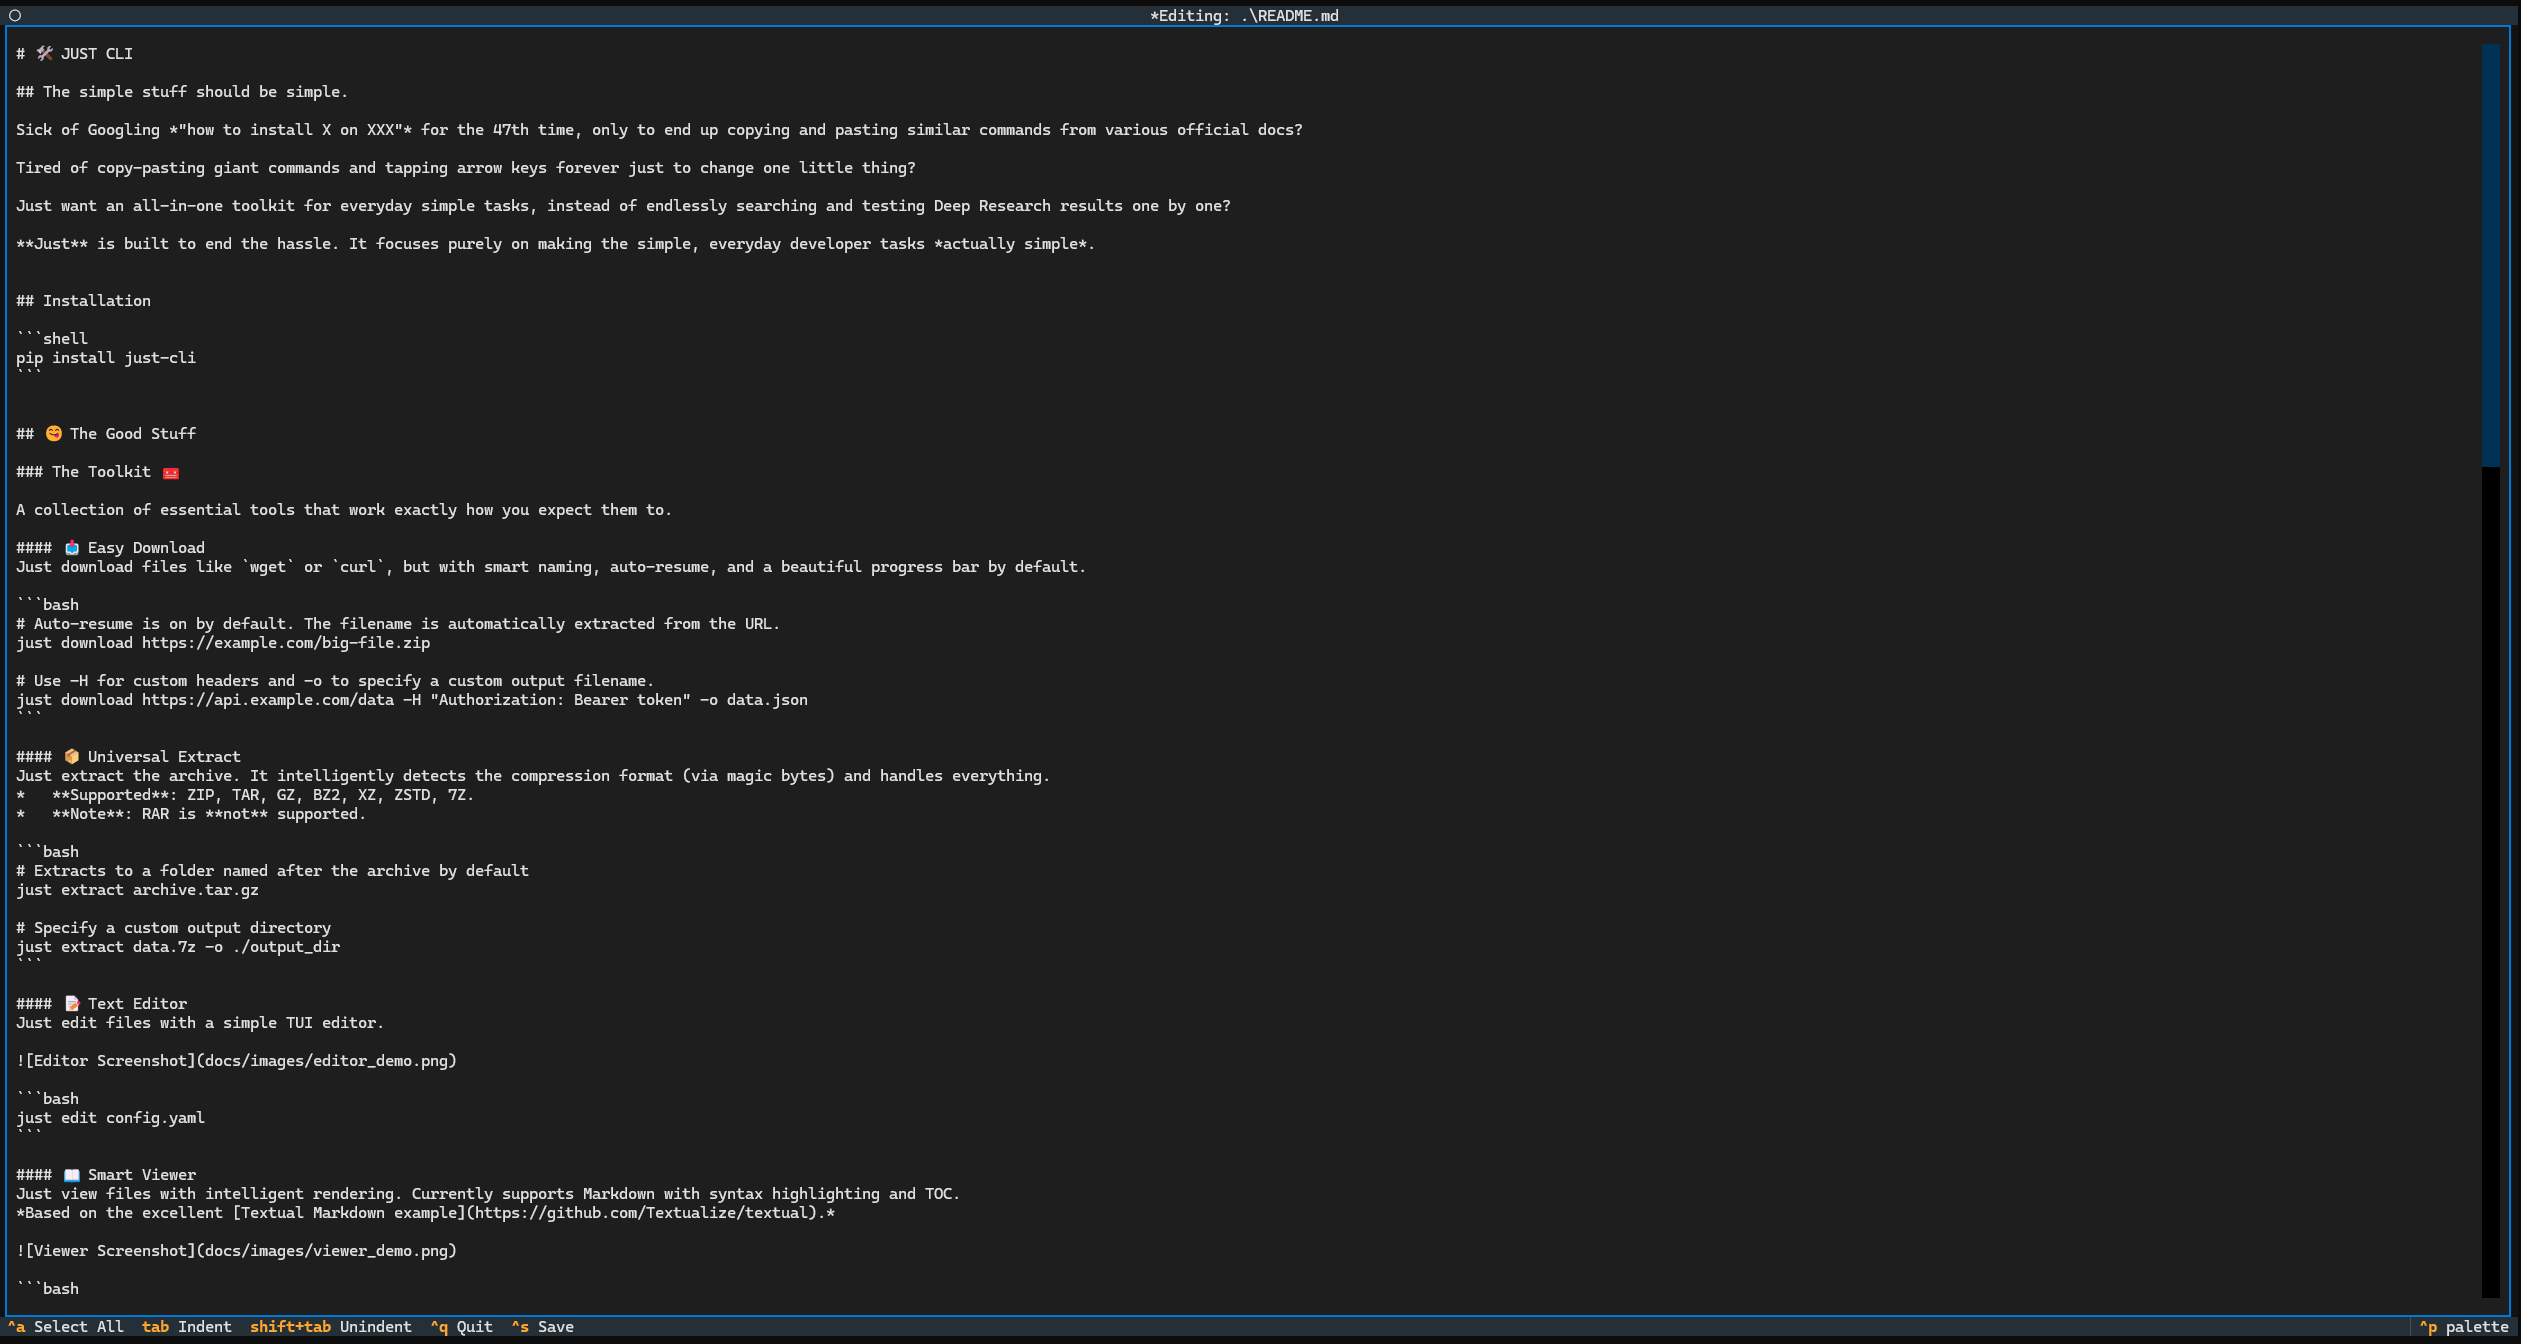
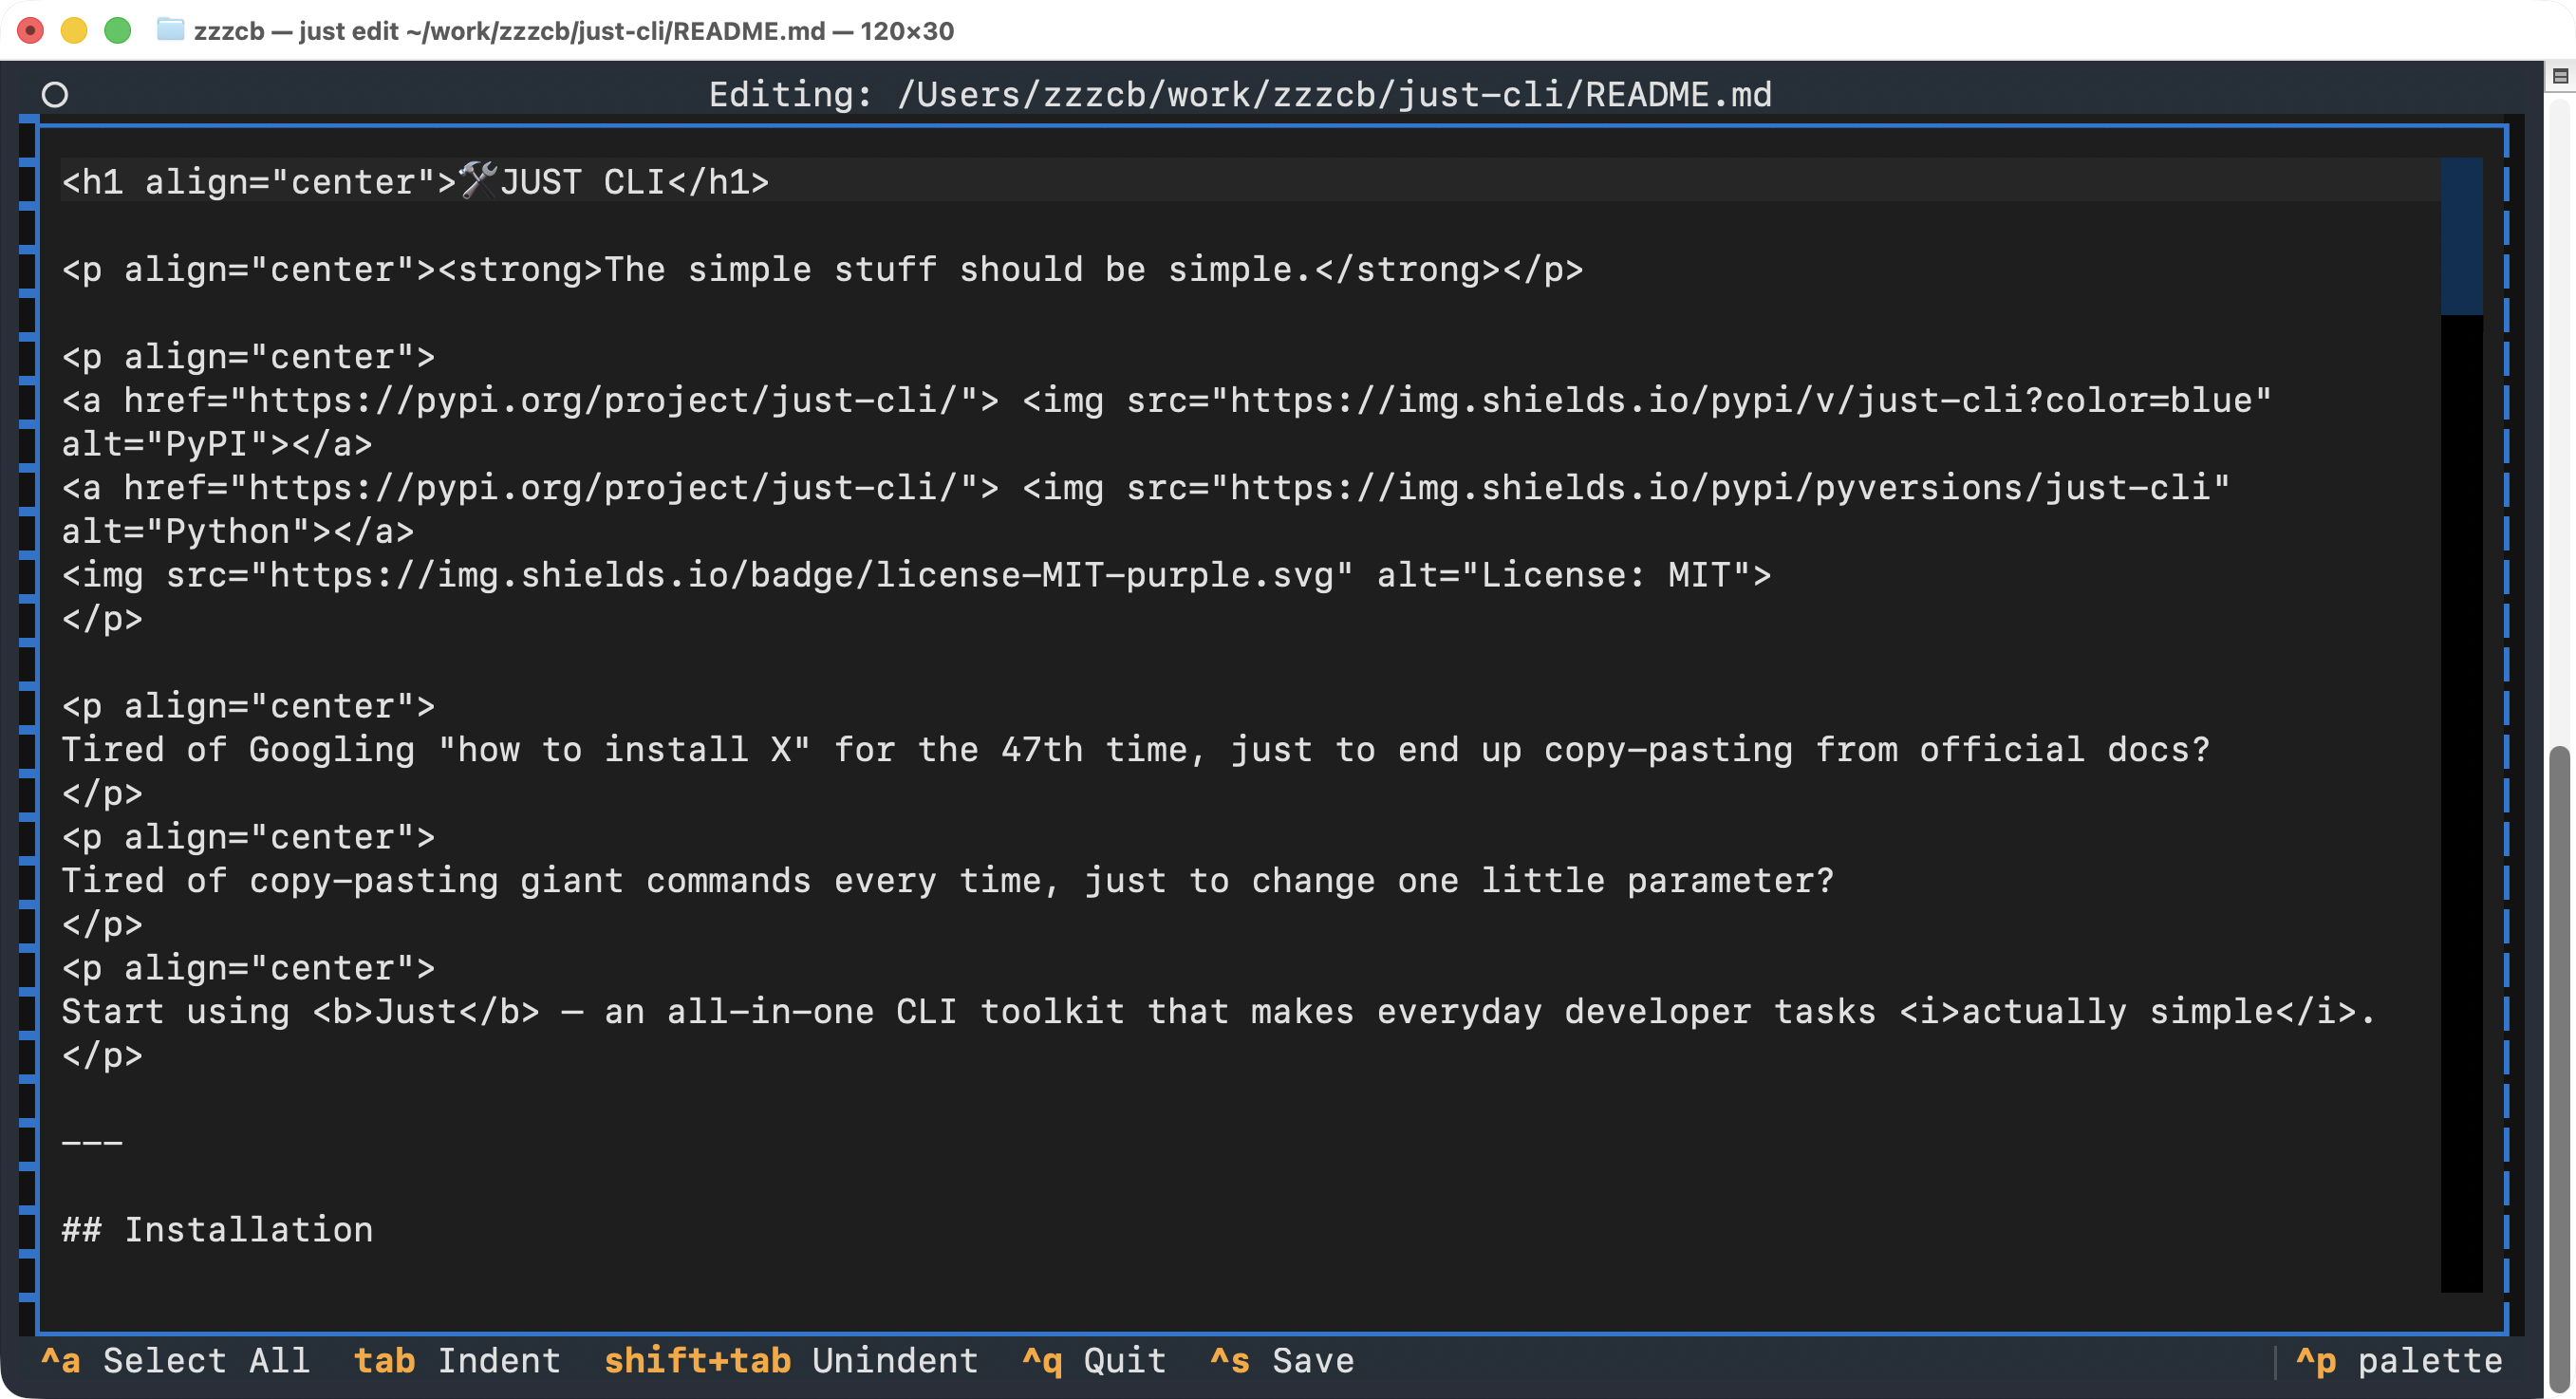
docs: refresh README and TUI screenshots
- Modernize README with badges, collapsible format table, and archive docs
- Rephrase intro and prioritize uv in installation
- Emphasize auto-resume by default in download section
- Use HTML h1 tag to properly center title in GitHub Markdown
- Add TUI screenshots for editor, viewer, and note

Changed region(s): [[0.0, 0.0, 1.0, 1.0], [0.4022, 0.3438, 0.8663, 0.375], [0.4022, 0.2812, 0.8663, 0.3125]]

diff --git a/README.md b/README.md
@@ -1,54 +1,91 @@
-# 🛠️ JUST CLI
+<h1 align="center">🛠️ JUST CLI</h1>
 
-## The simple stuff should be simple.
+<p align="center"><strong>The simple stuff should be simple.</strong></p>
 
-Sick of Googling *"how to install X on XXX"* for the 47th time, only to end up copying and pasting similar commands from various official docs?
+<p align="center">
+<a href="https://pypi.org/project/just-cli/"> <img src="https://img.shields.io/pypi/v/just-cli?color=blue" alt="PyPI"></a>
+<a href="https://pypi.org/project/just-cli/"> <img src="https://img.shields.io/pypi/pyversions/just-cli" alt="Python"></a>
+<img src="https://img.shields.io/badge/license-MIT-purple.svg" alt="License: MIT">
+</p>
 
-Tired of copy-pasting giant commands and tapping arrow keys forever just to change one little thing?
+<p align="center">
+Tired of Googling "how to install X" for the 47th time, just to end up copy-pasting from official docs?
+</p>
+<p align="center">
+Tired of copy-pasting giant commands every time, just to change one little parameter?
+</p>
+<p align="center">
+Start using <b>Just</b> — an all-in-one CLI toolkit that makes everyday developer tasks <i>actually simple</i>.
+</p>
 
-Just want an all-in-one toolkit for everyday simple tasks, instead of endlessly searching and testing Deep Research results one by one?
-
-**Just** is built to end the hassle. It focuses purely on making the simple, everyday developer tasks *actually simple*.
-
+---
 
 ## Installation
 
-```shell
+```bash
+uv tool install just-cli
+```
+
+Or with pip:
+
+```bash
 pip install just-cli
 ```
 
-## 😋 The Good Stuff
+---
 
-### The Toolkit 🧰
+## Features
 
-A collection of essential tools that work exactly how you expect them to.
+### 📦 Archive & Extract
 
-#### 📥 Easy Download
-Just download files like `wget` or `curl`, but with smart naming, auto-resume, and a beautiful progress bar by default.
+Create and extract archives with automatic format detection.
 
 ```bash
-# Auto-resume is on by default. The filename is automatically extracted from the URL.
+# Create archives — format is determined by output extension
+just archive mydir -o backup.zip
+just archive mydir -o backup.tar.gz
+just archive mydir -o backup.7z
+just archive myfile.txt -o myfile.txt.gz    # single-file compression
+
+# Extract archives — magic bytes detection, works even with wrong extensions
+just extract backup.zip
+just extract data.tar.gz -o ./output_dir
+```
+
+<details>
+<summary><strong>Supported formats</strong></summary>
+
+| Format | Archive | Extract |
+|--------|:-------:|:-------:|
+| `.zip` | ✅ | ✅ |
+| `.tar` | ✅ | ✅ |
+| `.tar.gz` / `.tgz` | ✅ | ✅ |
+| `.tar.bz2` / `.tbz2` | ✅ | ✅ |
+| `.tar.xz` / `.txz` | ✅ | ✅ |
+| `.tar.zst` / `.tzst` | ✅ | ✅ |
+| `.gz` | ✅ | ✅ |
+| `.bz2` | ✅ | ✅ |
+| `.xz` | ✅ | ✅ |
+| `.zst` | ✅ | ✅ |
+| `.7z` | ✅ | ✅ |
+
+</details>
+
+### 📥 Download
+
+Like `wget` or `curl`, but with auto-resume **by default** and a progress bar.
+
+```bash
+# Filename is automatically extracted from URL, resume is on by default
 just download https://example.com/big-file.zip
 
-# Use -H for custom headers and -o to specify a custom output filename.
+# Custom headers and output name
 just download https://api.example.com/data -H "Authorization: Bearer token" -o data.json
 ```
 
-#### 📦 Universal Extract
-Just extract the archive. It intelligently detects the compression format (via magic bytes) and handles everything.
-*   **Supported**: ZIP, TAR, GZ, BZ2, XZ, ZSTD, 7Z.
-*   **Note**: RAR is **not** supported.
+### 📝 Edit
 
-```bash
-# Extracts to a folder named after the archive by default
-just extract archive.tar.gz
-
-# Specify a custom output directory
-just extract data.7z -o ./output_dir
-```
-
-#### 📝 Text Editor
-Just edit files with a simple TUI editor.
+A lightweight TUI text editor built right in.
 
 ```bash
 just edit README.md
@@ -56,137 +93,98 @@ just edit README.md
 
 ![Editor Screenshot](docs/images/editor_demo.png)
 
-#### 📖 Smart Viewer
-Just view files with intelligent rendering. Currently supports Markdown with syntax highlighting and TOC.
-*Based on the excellent [Textual Markdown example](https://github.com/Textualize/textual).*
+### 📖 View
+
+Smart file viewer with syntax highlighting, TOC, and structured rendering.
 
 ```bash
-just view README.md
+just view README.md          # Markdown
+just view data.json          # JSON
+just view config.xml         # XML
 ```
 
 ![Viewer Screenshot](docs/images/viewer_demo.png)
 
-#### 🌐 Cloudflare Tunnel
-Just expose your local server to the internet.
+### 🌐 Tunnel
+
+Expose your local server to the internet via Cloudflare Tunnel.
 
 ```bash
-# Powered by Cloudflare Tunnel (cloudflared)
 just tunnel http://localhost:8000
 ```
 
-#### 🐧 Common Linux File Operations
-Just some common file operations implemented in Python, for those tired of remembering command differences between Linux and Windows.
+### 🐧 File Operations
+
+Common file commands, cross-platform, no syntax surprises.
 
 ```bash
-just cat
-just ls 
-just cp
-just mv
-just rm
-just mkdir
+just cat file.txt
+just ls
+just cp src dst
+just mv old new
+just rm file
+just mkdir dir
 ```
 
-### The Extension System 🧩
+### 📒 Notes
 
-#### Create a CLI tool with Just Extension in just 2 steps
+Quick notes stored in `~/.just/notes`.
 
-The core idea is simple: **String Replacement**. You take a long, complex command, mark the parts you want to change, and `just` generates a CLI for it.
+```bash
+just note
+```
 
-Here is an example:
+![Note Screenshot](docs/images/note_demo.png)
 
-1.  **Register the complex command**:
-    Tell `just` what command you want to alias.
-    ```bash
-    just ext add docker inspect -f '{{range .NetworkSettings.Networks}}{{.IPAddress}}{{end}}' f523e75ca4ef
-    ```
+### 🧩 Extension System
 
-2.  **Design your command**:
-    Design a command structure that is easy for you to remember by marking dynamic parts using the syntax `[<name>:<type>=<default>#<help>]`.
-    ```text
-    # Replace the static container ID with a dynamic argument
-    Enter extension commands: just docker ip f523e75ca4ef[container_id:str#The Container ID]
-    ```
+Turn any long command into a reusable, type-safe CLI in 2 steps.
 
-**That's it!** Now you can use your new command:
+**1. Register the base command:**
+```bash
+just ext add docker inspect -f '{{range .NetworkSettings.Networks}}{{.IPAddress}}{{end}}' f523e75ca4ef
+```
+
+**2. Define your CLI by marking dynamic parts:**
+```text
+Enter extension commands: just docker ip f523e75ca4ef[container_id:str#The Container ID]
+```
+
+**Done.** Now use it:
 ```bash
 just docker ip <container_id>
 ```
 
-#### ✨ How it works
+Under the hood, `just` generates a native Python script using typer — with auto-completion, type validation, and help messages. All from simple **string replacement**.
 
-When you run the command above, `just` compiles a native Python script using **typer**.
+### 💿 Installer Framework
 
-1.  **Parsing**: The syntax `f523e75ca4ef[container_id:str#The Container ID]` tells `just` to:
-    *   Identify `f523e75ca4ef` as the **target string** to replace.
-    *   Create a variable `container_id` of type `str`.
-    *   Use "The Container ID" as the help message.
-
-2.  **Code Generation**: It generates a Python function with a type-safe signature:
-    ```python
-    def main(container_id: Annotated[str, typer.Argument(help="The Container ID")]):
-        # The original command template
-        command = "docker inspect -f '{{range .NetworkSettings.Networks}}{{.IPAddress}}{{end}}' f523e75ca4ef"
-        
-        # String Replacement Logic
-        command = command.replace('f523e75ca4ef', str(container_id))
-        
-        # Execution
-        subprocess.run(shlex.split(command))
-    ```
-
-3.  **Result**: You get a fully functional CLI with auto-completion, type validation, and help messages—all powered by the simple act of string replacement.
-
-
-### The Installer 💿
-
-#### Automate the "Official Docs" with minimal code.
-
-`just` allows you to run any command from the official docs using `just.execute_commands`. It simply automates your manual steps.
-
-To help you make decisions, `just` provides system probing tools:
-*   `just.system.platform`: `linux`, `windows`, `darwin`
-*   `just.system.arch`: `x86_64`, `aarch64`
-*   `just.system.pms`: Detects `winget`, `brew`, `apt`, etc.
-
-We also provide two specialized helpers for common scenarios:
-*   **`just.BinaryInstaller`**: Best for single-file binaries (handles download, chmod, path).
-*   **`just.ArchiveInstaller`**: Best for archives (handles download, extraction, linking).
-
-#### Example: Installing Cloudflared
-
-Here is a complete example that mimics the official installation logic:
+Automate installation scripts with system probing and binary/archive helpers.
 
 ```python
 @just.installer(check="cloudflared --version")
-def install_cloudflare():
-    """Install Cloudflare Tunnel client."""
-    
-    # Use standard package managers if available
-    if just.system.pms.winget.is_available():
-        just.execute_commands("winget install --id Cloudflare.cloudflared")
-        
-    elif just.system.pms.brew.is_available():
+def install_cloudflared():
+    if just.system.pms.brew.is_available():
         just.execute_commands("brew install cloudflared")
-    
-    # Use BinaryInstaller
     elif just.system.platform == 'linux':
-        # This helper automates: curl -> chmod +x -> symlink to bin
         just.BinaryInstaller(
             url='https://github.com/cloudflare/cloudflared/releases/.../cloudflared-linux-amd64',
             alias='cloudflared'
         ).run()
-    
-    else:
-        raise NotImplementedError
 ```
 
+Built-in system info:
+- `just.system.platform` → `linux`, `windows`, `darwin`
+- `just.system.arch` → `x86_64`, `aarch64`
+- `just.system.pms` → detects `winget`, `brew`, `apt`, etc.
 
-## 🤝 Contributing
+---
 
-Found a bug? Want to add a new installer?
-Fork it, fix it, ship it. We love PRs.
-Just keep it cool, keep it simple, and don't break the "just works" vibe.
+## Contributing
 
-## 📄 License
+Found a bug? Want a new feature?
+Fork it, fix it, ship it. Keep it cool, keep it simple, don't break the *"just works"* vibe.
 
-MIT. Go wild.
+## License
+
+[MIT](LICENSE)